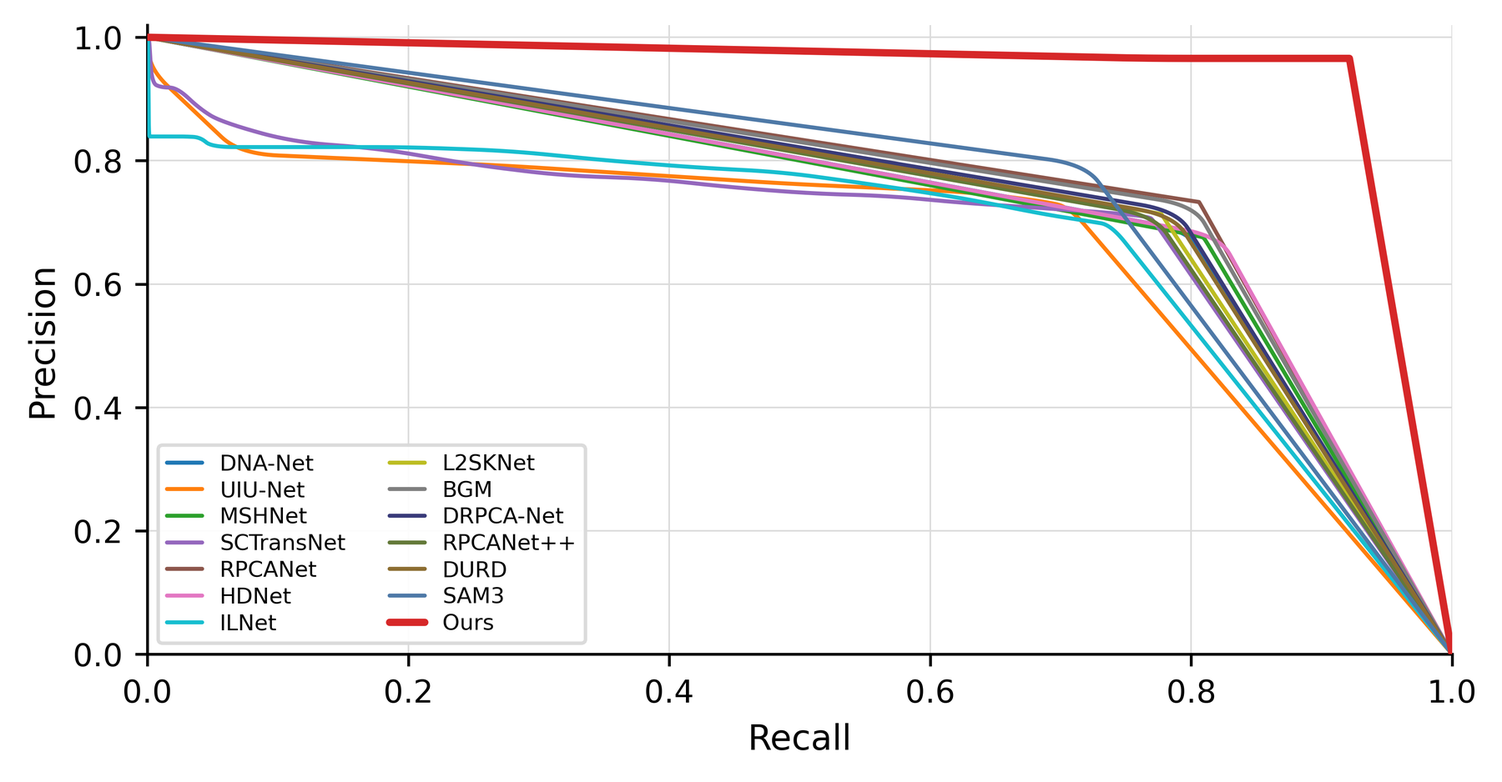
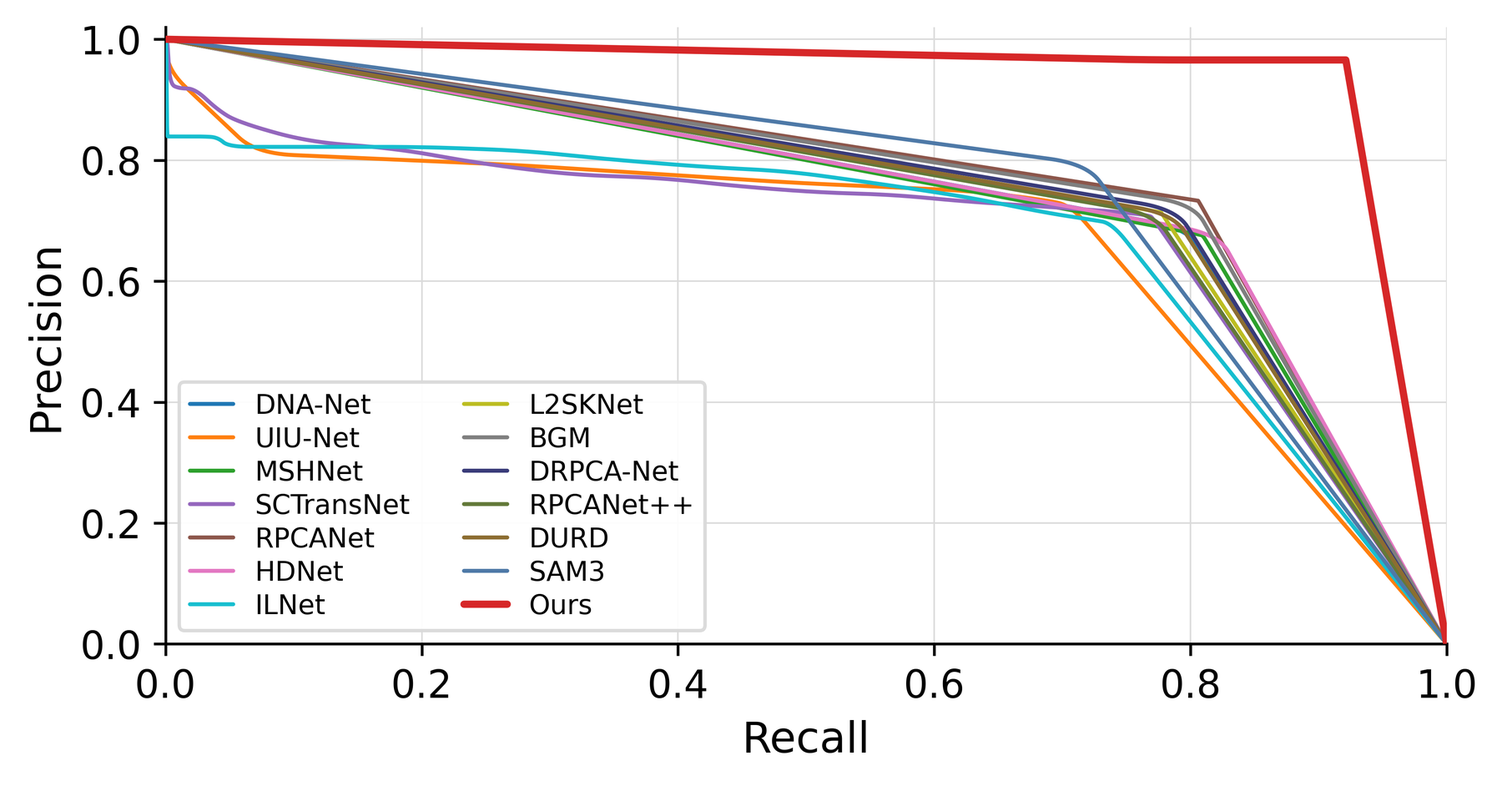
roc 与 pr_obj 字号放大到 1.25 倍
- tools/plot_roc_pr.py、tools/plot_pr_object.py 新增 --font-scale（默认 1.0）：
  轴标签 9->11.25 pt、刻度 8->10 pt、图例 6.4->8 pt；图幅参数不变。
- 重出 v13 的 roc.{png,pdf} 与 pr_obj.{png,pdf}，两张 PNG 同为 3645x1907
  （roc 用 --fig-width 6.8，pr_obj 用 --fig-width 6.686 --fig-height 3.239 对齐）。
- 只改了这 4 个文件；v13 的 pr.png / roc_pr.png 仍是 1.0 版，要统一加同一开关重画。
- 文档：docs/Seal_ROC_PR曲线.md 增"字号"说明与 seal_roc_v13.png 预览；AGENTS/README 同步。
- 服务器同步：roc.png sha 1de7d7fe…、pr_obj.png dbf1b43a…、两个 plot 脚本一并更新。

Changed region(s): [[0.0, 0.0309, 0.9956, 0.8966], [0.4667, 0.6493, 0.7778, 0.6802], [0.4978, 0.8966, 0.5911, 0.9584]]

diff --git a/tools/plot_roc_pr.py b/tools/plot_roc_pr.py
@@ -32,6 +32,11 @@ COLORS = [
     '#4e79a7', '#a55194', '#76b7b2', '#59a14f',
 ]
 
+# Every hard-coded point size below is multiplied by this. It is set from
+# --font-scale, so a figure can be re-rendered with larger type without touching
+# any other layout decision.
+FS = 1.0
+
 
 def color_map(data, highlight):
     """One colour per curve; the highlighted method always gets the red."""
@@ -181,7 +186,7 @@ def style_axes(ax):
     ax.grid(True, linestyle=':', linewidth=0.55, color='0.72', alpha=0.9)
     for s in ('top', 'right'):
         ax.spines[s].set_visible(False)
-    ax.tick_params(labelsize=8, width=0.8, length=3)
+    ax.tick_params(labelsize=8 * FS, width=0.8, length=3)
 
 
 def two_segment(cv, xmax, knee_frac):
@@ -217,8 +222,8 @@ def draw_roc(ax, data, xmax, lw=1.15, lw_main=2.0, two=False, knee_frac=0.98, hi
                 solid_capstyle='round', label=label)
     ax.set_xlim(0, xmax)
     ax.set_ylim(0, 1.02)
-    ax.set_xlabel('False Positive Rate (FPR)', fontsize=9)
-    ax.set_ylabel('True Positive Rate (TPR)', fontsize=9)
+    ax.set_xlabel('False Positive Rate (FPR)', fontsize=9 * FS)
+    ax.set_ylabel('True Positive Rate (TPR)', fontsize=9 * FS)
     ax.set_xticks(np.linspace(0, xmax, 5))
     ax.ticklabel_format(axis='x', style='sci', scilimits=(-4, -4), useMathText=True)
     ax.yaxis.set_major_locator(MaxNLocator(6))
@@ -252,8 +257,8 @@ def draw_pr(ax, data, lw=1.15, lw_main=2.0, style='v1', highlight='Ours', cut_fp
                     markeredgecolor='white', markeredgewidth=0.5)
     ax.set_xlim(0, 1.0)
     ax.set_ylim(0, 1.02)
-    ax.set_xlabel('Recall', fontsize=9)
-    ax.set_ylabel('Precision', fontsize=9)
+    ax.set_xlabel('Recall', fontsize=9 * FS)
+    ax.set_ylabel('Precision', fontsize=9 * FS)
     style_axes(ax)
 
 
@@ -267,6 +272,7 @@ def save(fig, outdir, stem, dpi):
 
 
 def legend_inside(ax, loc, labels, ncol=1, fontsize=6.4):
+    fontsize = fontsize * FS
     """Legend inside the axes (keeps the exported PNG square)."""
     ax.legend(fontsize=fontsize, frameon=True, ncol=ncol, loc=loc,
               labelspacing=0.28, handlelength=1.8, borderpad=0.4,
@@ -274,6 +280,7 @@ def legend_inside(ax, loc, labels, ncol=1, fontsize=6.4):
 
 
 def legend_outside(fig, ax, handles, labels, ncol=1, fontsize=7.4, gap=0.012):
+    fontsize = fontsize * FS
     """Legend hugging the right edge of `ax` (figure coordinates).
 
     Anchoring at a fixed figure fraction left a wide blank band between the
@@ -316,9 +323,13 @@ def main():
                      help='only draw PR thresholds with FPR <= this (e.g. same window as ROC)')
     ap_.add_argument('--highlight', default='Ours',
                      help='label drawn thicker/on top; ignored when absent')
+    ap_.add_argument('--font-scale', type=float, default=1.0,
+                     help='multiply every font size (axis labels, ticks, legend) by this')
     ap_.add_argument('--knee-frac', type=float, default=0.98,
                      help='knee = first point whose TPR >= this fraction of the border TPR')
     args = ap_.parse_args()
+    global FS
+    FS = args.font_scale
 
     manifest = load(args.manifest)
     methods = manifest['methods'] if isinstance(manifest, dict) else manifest
@@ -381,11 +392,11 @@ def main():
     fig, axes = plt.subplots(1, 2, figsize=(min(args.fig_width * 2 + 0.6, 11.5), 3.4))
     fig.subplots_adjust(wspace=0.14, left=0.06, right=0.9)
     draw_roc(axes[0], data, args.xmax, two=args.two_segment, knee_frac=args.knee_frac, highlight=args.highlight)
-    axes[0].set_title('(a) ROC', fontsize=9.5)
+    axes[0].set_title('(a) ROC', fontsize=9.5 * FS)
     draw_pr(axes[1], data, style=args.pr_style, highlight=args.highlight, cut_fpr=args.pr_cut_fpr,
             endpoint_dot=args.pr_endpoint_dot, min_pred=args.pr_min_pred,
             close=args.pr_close)
-    axes[1].set_title('(b) Precision-Recall', fontsize=9.5)
+    axes[1].set_title('(b) Precision-Recall', fontsize=9.5 * FS)
     if args.square:
         for a in axes:
             a.set_box_aspect(1)

diff --git a/tools/plot_pr_object.py b/tools/plot_pr_object.py
@@ -130,6 +130,8 @@ def main():
                     help='append "[AP=0.xxx]" to each legend entry')
     ap.add_argument('--no-show-ap', dest='show_ap', action='store_false')
     ap.set_defaults(show_ap=False)
+    ap.add_argument('--font-scale', type=float, default=1.0,
+                    help='multiply every font size by this')
     ap.add_argument('--corner-radius', type=float, default=0.018,
                     help='fillet radius in axis units for the elbows (0 = sharp corners)')
     ap.add_argument('--close', dest='close', action='store_true',
@@ -143,7 +145,8 @@ def main():
     os.makedirs(args.outdir, exist_ok=True)
     cmap = color_map([m['label'] for m in items], args.highlight)
 
-    plt.rcParams.update({'font.size': 9, 'axes.linewidth': 0.8})
+    fs = args.font_scale
+    plt.rcParams.update({'font.size': 9 * fs, 'axes.linewidth': 0.8})
     fig, ax = plt.subplots(figsize=(args.fig_width, args.fig_height))
 
     rows = []
@@ -167,16 +170,16 @@ def main():
 
     ax.set_xlim(0, 1.0)
     ax.set_ylim(0, 1.02)
-    ax.set_xlabel('Recall', fontsize=10)
-    ax.set_ylabel('Precision', fontsize=10)
+    ax.set_xlabel('Recall', fontsize=10 * fs)
+    ax.set_ylabel('Precision', fontsize=10 * fs)
     ax.set_xticks(np.linspace(0, 1, 6))
     ax.set_yticks(np.linspace(0, 1, 6))
     ax.grid(True, ls='-', lw=0.45, color='0.86', zorder=0)
     for s in ('top', 'right'):
         ax.spines[s].set_visible(False)
     if args.title:
-        ax.set_title(args.title, fontsize=9.5)
-    ax.legend(fontsize=6.3, ncol=args.legend_ncol, loc=args.legend_loc,
+        ax.set_title(args.title, fontsize=9.5 * fs)
+    ax.legend(fontsize=6.3 * fs, ncol=args.legend_ncol, loc=args.legend_loc,
               frameon=True, edgecolor='0.85', framealpha=0.93,
               labelspacing=0.26, handlelength=1.6, borderpad=0.4)
 

diff --git a/AGENTS.md b/AGENTS.md
@@ -67,7 +67,7 @@
 - 第三批（入表，行 29～32）：L2SKNet（TGRS25）、BGM（TGRS25）、DRPCA-Net（TGRS25）、DURD（TGRS26），均为 2025–2026 年、有官方代码的全监督单帧方法，12 个对比方法到此凑满。目录 `L2SKNet-main/`、`BGM-main/`、`DRPCA-Net-main/`、`DURD-main/`；训练设置：L2SKNet 150/Adam 5e-4、BGM 150/Adam 5e-4（两者模型输出已是概率，用概率空间 dataset 级 IoU）、DRPCA-Net 60/Adam 3e-5/dataset 级 SoftIoU + 0.01 MSE、DURD 100/Adam 1e-4/SoftIoU + 0.1 MSE。各处改动逐条写在对应实验记录与 [汇总](docs/Seal全监督基线评估汇总.md#训练不稳定与失败记录)。
 - 论文版式定性图（对齐 PDDiff Fig. 8/9）：[tools/build_paper_qualitative.py](tools/build_paper_qualitative.py)，每个样例两行（2D 二值面板 + 红框/放大插图；3D 响应面 `elev=26, azim=-64`、按面板 z 上限）。三条硬约束：① 3D 行必须喂**概率图**（`--surf-maps results/<M>/Seal/fullsup_test_maps`），二值图是 0/255 阶跃，画出来只有一根尖刺；② Seal 目标只有 3–5 px，`full` 版式（整幅 + 右下插图）在 0.87 in 列宽下几乎看不见，正式图用 `--roi-panels`（面板 = 6 倍放大 ROI，`--roi-min 64 --roi-margin 24`）；③ 11 列 × 11 样例按 9.6 in 出图，若按 7.2 in 排版表头掉到 5.6 pt，主图应拆成 `seal_pick6_roi` + `seal_pick5_roi` 两张。样例取 [docs/qualitative_rank_top200.json](docs/qualitative_rank_top200.json)（`score = F1(Ours) − mean_k F1(baseline_k)`，可用 [docs/qualitative_review_top200.html](docs/qualitative_review_top200.html) 逐图复核），当前采用排名 1,2,5,6,8,11,13,15,19,21,29 共 11 张，一键重建 [tools/make_paper_qualitative_pick.sh](tools/make_paper_qualitative_pick.sh)。Ours 预测在 `Ours/test_maps`（1,983 张概率图）、SAM3 在 `Ours/SAM3-test_maps`（同阈值 `>=128`）。版式规格、样例清单与读数见 [docs/Seal定性图_论文版式.md](docs/Seal定性图_论文版式.md)，预览 `docs/assets/seal_qualitative_pick6_roi.png`、`docs/assets/seal_qualitative_pick11_full.png`。全分辨率成品（600 dpi PNG + 矢量 PDF + meta，约 110 MB/版）按版本归档：服务器保留全部历史（v1 `Ours/qualitative/v1_20261104_11col/`、v2 `v2_20261105/`、v3 `v3_20261105/`、v4 `v4_20261105/`、v5 `v5_20261105/`、v6 `v6_20261105/`、v7 `v7_20261105/`、v8 `v8_20261105/`、v9 `v9_20261105/`、v10 `v10_20261105/`、v11 `v11_20261105/`、v12 `v12_20261105/`），本地只留最新一版在 `Ours/qualitative/v12_20261105/`；**整个 `Ours/qualitative/` 不进 git**（`.gitignore` 整目录排除，只有 `docs/assets/` 里的 1800 px 预览入库）。版式演进：v2 压紧列间距、3D 加网格 + 整数刻度 + 轴名、去掉黑色粗轴线；v3 加单图拆分与 Visio；v4 让 3D 盒子铺满格子（按格子尺寸渲染 PNG → 裁白边 → `aspect='auto'` 贴回）；**v5 解决「3D 白边仍偏大、峰不够高不够显眼」：裁边 26→6 px、平滑 σ 2.0→0.9、`vmax` 取平滑后峰值（峰顶到天花板）、Z 轴统一 0–255 保证跨列可比、盒子 z 比例 0.55→1.00、自定义 `seal3d` 色带（深蓝底→青→黄→亮红）+ `PowerNorm(0.45)`**；并新增 `--diag` 诊断面板（TP 白 / FP 红 / FN 绿 + 红框标 GT），Visio 改用诊断面板；**v6 把诊断面板的红框放大到至少占面板 36%（约 138 px、3 px 线）**；**v11：Ours 换成 1105 最新预测**（`Ours/test_maps` ← `1105Ours_result/Ours.zip`，旧预测存 `Ours/test_maps_20261105_prev`），版式同 v10；11 个样例在新预测下 F1 0.55–0.87、目标全检出（9 个胜全部基线，2 个仅比 SAM3 低 0.01–0.02），故沿用原 11 张；**v10 红框只留一个**：Image 列回到整幅 622×417（压缩成正方形）并画唯一一个正方形红框（v11 曾把边长统一为 `64×sqrt(sx·sy)≈48 px`；**v12 起 Image 列不再画任何红框**——统一 48 px 对 2688/2120/2894 三个大目标偏小、目标露到框外，而各列本来就是同一 ROI 的 6 倍放大，定位框不再必要，实测 Image 列 0 个红色像素；`--image-box` 仅保留为复现 v10/v11 的开关），Mask…Ours 不再画任何红框，保留 TP 白/FP 红/FN 绿；**v12 同时收紧 3D 刻度**：刻度数字向坐标轴收拢（x/y `pad` −3.0→−4.2、z −1.5→−2.2，字号 2.2→2.35），3D 渲染改用 `bbox_inches='tight'` 并统一贴到 848×804 画布（此前 3D 轴的数字画在 axes 之外、被画布直接裁掉，放进 Visio 后又被下一个样例的表头挡住），Visio `ALL` 页的 3D 图缩到 1.07 in 高（宽同比 1.129）让开下一块表头，2D 行与手画红框位置不动；`--image-mode crop417` 可换成 417×417 原比例窗口；**v9 去掉黑边**：ROI 从「以目标为中心后按边界裁」改成「固定边长正方形、贴边整体内移」，窗口永远完整落在图像内（此前 2735 这类贴右边界的样例裁成 64×43 后被补黑）；**v8 修正 Image 列**：原来它是整幅 622×417（红框=ROI 窗口），而 Mask/方法列是已经放大 6 倍的 ROI 块（红框=GT 定位框），两者天然不对应——现在 Image 列也取同一块 ROI 的 6 倍放大并套同一个定位框，11 列视野与框位置完全一致——红框是给人定位用的，v5 那版只比 GT 外扩 8 px，印刷尺寸下等于没有。**v7 再优化三点：① 3D 网格线 0.62 灰 / 0.45 pt、刻度数字 2.2 pt 近黑、每轴 3 个好刻度、去掉会撞车的 X/Y/Z 轴名；② Image 列 3D 改彩色（`seal3d` 色带 + 线性映射，与 PDDiff 一致）；③ 诊断面板遇到多目标时每个连通域各画一个红框（单目标 36% 面板、多目标 0.45/n）**。Visio 版由 [tools/make_visio_qualitative.ps1](tools/make_visio_qualitative.ps1) 用 Visio COM 生成（仅 Windows + 已装 Visio）：**第 1 页 `ALL` 把 11 个样例纵向摞成一页**（表头只出现一次，253 个形状，15×31.3 in），之后每样例一页（每页 34 个独立形状：表头矩形 + 22 张图片 + 页脚说明），全部可手动调整格式。
 - 定性图（论文拼图用）：12 个方法与 Ours 的二值预测图在 `results/<Method>/Seal/test_binary/`（1,983 张，`pixel >= 128` → 255），由 [tools/make_binary_maps.py](tools/make_binary_maps.py) 与 [tools/make_qualitative.sh](tools/make_qualitative.sh) 生成；样例拼图在服务器 `qualitative/<stem>/panel.png`（RGB/热红外/GT/预测叠加，13 行），样例清单 `docs/Seal定性对比样例.json`，说明见 [docs/Seal定性对比图.md](docs/Seal定性对比图.md)。
-- ROC / P-R / Pd–Fa 曲线：像素级曲线用 [tools/roc_hist.py](tools/roc_hist.py) 把预测值按 GT 前景（`gt > 127`）/背景分箱成 256 桶直方图（[tools/roc_hist_all.sh](tools/roc_hist_all.sh) → `results/roc_hist/<Method>.json`），目标级曲线用 [tools/target_curves.py](tools/target_curves.py) 在 63 个阈值上做 8 连通 + 质心 <3 px 一对一匹配（[tools/target_curves_all.sh](tools/target_curves_all.sh) 13 进程并行约 1.5 h → `results/target_curves/<Method>.json`）；出图分别是 [tools/plot_roc_pr.py](tools/plot_roc_pr.py) 与 [tools/plot_target_curves.py](tools/plot_target_curves.py)。产物按版本存 `Ours/roc_pr/<version>/`，**`v10_20261105/`（正文主图，Ours + 8 个重点对比方法：DNA-Net / MSHNet / RPCANet / HDNet / L2SKNet / BGM / RPCANet++ / SAM3）与 `v11_20261105/`（全量 14 条：再加 UIU-Net / SCTransNet / ILNet / DRPCA-Net / DURD）**，两者横轴都改成 **0–16×10⁻⁴（刻度 0/4/8/12/16）**，斜线因此更陡；**v10 用 1:1 坐标框（`--square`），v11 用 6.8×3.3 的长方形画布（不带 `--square`，约 1.92:1，用户偏好）**；`v9_20261105/`（全量）与 `v8_20261105/`（8 个）是 8×10⁻⁴ 宽扁版式的前身**，画法沿用 v5，Ours 红色加粗置顶（`--highlight Ours`）；`v7_20261105/` 是旧 Ours 预测的同一版式，`v6_20261105/` 是误删 Ours 的一版，二者仅留档；`v5_20261105/` 为 13 方法版（Ours + 12 基线），**`v12_20261105/` 为现行目标级 Pd–Fa（1105 批次，线性 + log）**，**`v13_20261105/` 是 v11 的 P-R 改进版**（画布、ROC 与 v11 逐点相同，只改 P-R 的显示：`--pr-min-pred 50000` + `--pr-endpoint-dot`，见下条），`v3_20261105/` 为旧预测的目标级版，`v4/v2/v1` 留档；每次同时存 PNG（600 dpi）与 PDF + `curves.json` + `summary.md`。**画法（用户明确要求）**：每个方法一条折线且只有两段直线——`(0,0) → 拐点 → (右边框, 平台)`；平台取右边框处的值（像素级 = TPR@FPR=窗口右端，目标级 = max Pd），拐点 = 沿横轴升序第一个 ≥0.98×平台 的点（`--two-segment`、`--knee-frac`）。横轴要够长（v10/v11 用 `--xmax 16e-4 --fig-width 4.8 --square`；v8/v9 为 `--xmax 8e-4 --fig-width 6.8`），否则平台贴右边框、看起来"戛然而止"；**`--square` 把坐标框设成 1:1**（`set_box_aspect(1)`），ROC 的斜线与纵轴夹角更小、P-R 是标准 45°；**`--legend-inside` 把图例放进坐标框**（ROC 右下、P-R 左下，>9 条自动两列），导出的 PNG 因此更紧凑（v10 正方形 2645×2564；v11 长方形 3589×1871）；两联图 `roc_pr` 的面板间距 0.28→0.14；改横轴时平台值按新的右边框取（`TPR@窗口右端`），所以 8→16×10⁻⁴ 后 SCTransNet/ILNet/UIU-Net 的平台从 0.88 升到 0.94；**面积指标仍报 `pAUC@5×10⁻⁴`**，该列不随画宽变化；P-R 保留 (0,1) 起点与 recall→1 的尾巴（`--pr-style v1`）；**P-R 为什么像"扇子且在半空截断"（v13 处理）**：Seal 预测是 8 位量化 + 大量硬零（`t=255` 时前景召回只有 0.25–0.61，多数方法在 28–57 % 的 GT 像素上恒为 0），recall 到不了 1，曲线右端自然停住；同时 `t` 接近 255 时整幅只剩几千个预测像素，precision 由个位数像素决定，于是 recall≈0 处冒出竖直毛刺、各条曲线分叉成扇面。v13 用两个**纯显示**开关处理、不动数据：`--pr-min-pred 50000` 丢掉"预测像素 < 5 万"的阈值（毛刺缩到几乎看不见）、`--pr-endpoint-dot` 在每条曲线末端加圆点（读作"到此为止"而非"画漏了"）；仍保留 (0,1) 哨兵，因为去掉后起点悬空（`--pr-style v2` 试过）。数据侧原因（硬零压低 recall）只能靠模型/后处理改，画图解决不了，分析见 [docs/Seal_ROC_PR曲线.md](docs/Seal_ROC_PR曲线.md)；**补充图 `v13_20261105/pr_1.{png,pdf}`**（`--pr-close`）把每条曲线从最后实测点**虚线**外推到 `(1,0)`、交接点画空心圆（实线=实测、虚线=外推）：这不是新数据，只说明"曲线本来就该到 (1,0)"——`recall=1` 时 precision 等于前景占比（Seal test 前景 105,712 px / 总 514,338,642 px = **2.06×10⁻⁴**），在 0–1 纵轴上即 0，所以补到 (1,0) 与补到 (1,2e-4) 肉眼无差；中间段按直线近似故称"大致"，虚线段不参与 pAUC/AP 积分，排名不变；补齐后各虚线在右下角**收成一束**是应有现象，不表示方法接近；**教科书式 P-R 两张补充图**：`v13_20261105/pr_2.{png,pdf}`（像素级、sklearn 惯例：256 个阈值含 `t=0`"全预测"、保留 (0,1) 哨兵，曲线自然终止于 (1,0)，AP 与 summary 一致 0.69984）与 `v13_20261105/pr_obj.{png,pdf}`（**对象级**：`recall` = 表中 Pd、`precision` = 匹配连通域 / 全部预测连通域，匹配规则与 Pd/Fa 相同；`t=128` 的 recall 与表中 Pd 逐位吻合、精度 Ours 0.960 vs 基线 0.66–0.75，Ours AP 0.890 vs 0.544–0.596，形状与参考图同形"高平台 + 右端陡降"，末端用实线同色补到 (1,0)、不画点、拐角 `--corner-radius 0.03` 贝塞尔倒角，**图例只写方法名**（AP 见 [docs/Seal_ROC_PR曲线.md](docs/Seal_ROC_PR曲线.md) 的表，要标回图上加 `--show-ap`）；图注须写明 0.71–0.92 → 1.0 那段不是实测，因对象级召回上限只有 0.71–0.92））；实现 [tools/target_pr.py](tools/target_pr.py)（输出 `results/target_pr/<stem>.json`，[tools/target_pr_all.sh](tools/target_pr_all.sh) 并行约 12 min）、[tools/plot_pr_object.py](tools/plot_pr_object.py)、[tools/plot_pr_textbook.py](tools/plot_pr_textbook.py)；**参考图"精度贴 1.0 平推"像素级做不到**——0.02 % 前景下 255 这一筒的精度只有 Ours 0.835、SAM3 0.651、DNA-Net 0.390，像素级只能从 0.83 起步；正文若配像素级 ROC 用 `pr_2`，配目标级 Pd–Fa（v12）用 `pr_obj`，两者 AP 不可互比、都不进 xlsx；图例贴紧坐标轴右缘（`bbox_to_anchor=(ax.x1+0.012, …)`，锚在固定图幅比例上会留一大片空白）；`--highlight` 指定加粗置顶的方法（默认 `Ours`，方法集里没有它时不加粗）；**红色只留给 highlight**，其余曲线从不含红色的 16 色调色板里取（`color_map()`），否则 14 条曲线时第一个基线和 Ours 会同为红色。**一致性**：像素级 `t=128` 的 precision/recall 可复原表中 F1/IoU（Ours precision 0.58130、recall 0.82963 → F1 0.68361、IoU 0.51931，与第 20 行一致；旧预测同点为 0.64637/0.59388 → 0.61912/0.44835）；目标级 `t=128` 的 Pd/Fa 与表中 13 行全部逐位吻合（Ours 0.89151 / 1.717e-05，与第 20 行一致；旧预测 0.82731 / 2.100e-06 存档于 `results/target_curves/Ours_prev_20261105.json`）。**读图**：① 面积指标报 **pAUC@5×10⁻⁴**（基线操作点 Fa@t=128 ≤ 2.4×10⁻⁴）；v8 换上 1105 的最新 Ours 后，两个窗口的 pAUC（**0.85234 / 0.89420**）与 AP（**0.69984**）都第一，像素 TPR@t=128 从 0.594 提到 **0.830**、FPR 从 6.7×10⁻⁵ 升到 1.2×10⁻⁴（仍是 9 个里第二低）；ROC 上 Ours 在 FPR≈3×10⁻⁴ 就到 0.94 平台，其余 8 个最高只有 0.737；SAM3 平台最高（0.737）但拐点在 4.9×10⁻⁴、Fa 是 Ours 的 3.6 倍，属"用更多误检换更高检出"，正文要把 Fa 一并给出；画到 8×10⁻⁴ 后按窗口积的 `pAUC@8×10⁻⁴` 会把弥散输出方法抬高，summary 两个窗口都列；② 全范围 AUC 不能用来排名（几乎不预测前景的方法 0.977–0.981），与 S/MAE 被背景主导同类；③ 目标级图（`v12_20261105/`，1105 批次）Ours 平台 Pd 0.922 最高、拐点 Fa 6.0×10⁻⁶ 比次优 HDNet（5.2×10⁻⁵）低 8.6 倍，拐点 Fa 跨度 17 倍，**目标级仍主推 log 轴**；④ 像素级 `Pd@t=128` 是前景像素召回率，与表中目标级 Pd 不同口径。曲线成品按同样目录结构同步到服务器 `Ours/roc_pr/`，重画脚本同步在服务器 `tools/`；1105 的 Ours 预测包同时上传到服务器 `Ours/1105Ours_result/Ours.zip`。**曲线与第 20 行 Ours 的八项指标现在同为 1105 这批预测**，可以互相引证；旧预测（`test_maps_20261105_prev`）的曲线与指标只作历史对照。口径、版本对照与复现命令见 [docs/Seal_ROC_PR曲线.md](docs/Seal_ROC_PR曲线.md)，预览 `docs/assets/seal_roc_pr_v13.png`（现行，全量 14 条）、`docs/assets/seal_roc_pr_v10.png`（8 个对比方法版）、`docs/assets/seal_pd_fa_v12.png`（现行目标级）、`docs/assets/seal_pd_fa_v3.png`（旧预测目标级）。
+- ROC / P-R / Pd–Fa 曲线：像素级曲线用 [tools/roc_hist.py](tools/roc_hist.py) 把预测值按 GT 前景（`gt > 127`）/背景分箱成 256 桶直方图（[tools/roc_hist_all.sh](tools/roc_hist_all.sh) → `results/roc_hist/<Method>.json`），目标级曲线用 [tools/target_curves.py](tools/target_curves.py) 在 63 个阈值上做 8 连通 + 质心 <3 px 一对一匹配（[tools/target_curves_all.sh](tools/target_curves_all.sh) 13 进程并行约 1.5 h → `results/target_curves/<Method>.json`）；出图分别是 [tools/plot_roc_pr.py](tools/plot_roc_pr.py) 与 [tools/plot_target_curves.py](tools/plot_target_curves.py)。产物按版本存 `Ours/roc_pr/<version>/`，**`v10_20261105/`（正文主图，Ours + 8 个重点对比方法：DNA-Net / MSHNet / RPCANet / HDNet / L2SKNet / BGM / RPCANet++ / SAM3）与 `v11_20261105/`（全量 14 条：再加 UIU-Net / SCTransNet / ILNet / DRPCA-Net / DURD）**，两者横轴都改成 **0–16×10⁻⁴（刻度 0/4/8/12/16）**，斜线因此更陡；**v10 用 1:1 坐标框（`--square`），v11 用 6.8×3.3 的长方形画布（不带 `--square`，约 1.92:1，用户偏好）**；`v9_20261105/`（全量）与 `v8_20261105/`（8 个）是 8×10⁻⁴ 宽扁版式的前身**，画法沿用 v5，Ours 红色加粗置顶（`--highlight Ours`）；`v7_20261105/` 是旧 Ours 预测的同一版式，`v6_20261105/` 是误删 Ours 的一版，二者仅留档；`v5_20261105/` 为 13 方法版（Ours + 12 基线），**`v12_20261105/` 为现行目标级 Pd–Fa（1105 批次，线性 + log）**，**`v13_20261105/` 是 v11 的 P-R 改进版**（画布、ROC 与 v11 逐点相同，只改 P-R 的显示：`--pr-min-pred 50000` + `--pr-endpoint-dot`，见下条），`v3_20261105/` 为旧预测的目标级版，`v4/v2/v1` 留档；每次同时存 PNG（600 dpi）与 PDF + `curves.json` + `summary.md`。**画法（用户明确要求）**：每个方法一条折线且只有两段直线——`(0,0) → 拐点 → (右边框, 平台)`；平台取右边框处的值（像素级 = TPR@FPR=窗口右端，目标级 = max Pd），拐点 = 沿横轴升序第一个 ≥0.98×平台 的点（`--two-segment`、`--knee-frac`）。横轴要够长（v10/v11 用 `--xmax 16e-4 --fig-width 4.8 --square`；v8/v9 为 `--xmax 8e-4 --fig-width 6.8`），否则平台贴右边框、看起来"戛然而止"；**`--square` 把坐标框设成 1:1**（`set_box_aspect(1)`），ROC 的斜线与纵轴夹角更小、P-R 是标准 45°；**`--legend-inside` 把图例放进坐标框**（ROC 右下、P-R 左下，>9 条自动两列），导出的 PNG 因此更紧凑（v10 正方形 2645×2564；v11 长方形 3589×1871）；两联图 `roc_pr` 的面板间距 0.28→0.14；改横轴时平台值按新的右边框取（`TPR@窗口右端`），所以 8→16×10⁻⁴ 后 SCTransNet/ILNet/UIU-Net 的平台从 0.88 升到 0.94；**面积指标仍报 `pAUC@5×10⁻⁴`**，该列不随画宽变化；P-R 保留 (0,1) 起点与 recall→1 的尾巴（`--pr-style v1`）；**P-R 为什么像"扇子且在半空截断"（v13 处理）**：Seal 预测是 8 位量化 + 大量硬零（`t=255` 时前景召回只有 0.25–0.61，多数方法在 28–57 % 的 GT 像素上恒为 0），recall 到不了 1，曲线右端自然停住；同时 `t` 接近 255 时整幅只剩几千个预测像素，precision 由个位数像素决定，于是 recall≈0 处冒出竖直毛刺、各条曲线分叉成扇面。v13 用两个**纯显示**开关处理、不动数据：`--pr-min-pred 50000` 丢掉"预测像素 < 5 万"的阈值（毛刺缩到几乎看不见）、`--pr-endpoint-dot` 在每条曲线末端加圆点（读作"到此为止"而非"画漏了"）；仍保留 (0,1) 哨兵，因为去掉后起点悬空（`--pr-style v2` 试过）。数据侧原因（硬零压低 recall）只能靠模型/后处理改，画图解决不了，分析见 [docs/Seal_ROC_PR曲线.md](docs/Seal_ROC_PR曲线.md)；**补充图 `v13_20261105/pr_1.{png,pdf}`**（`--pr-close`）把每条曲线从最后实测点**虚线**外推到 `(1,0)`、交接点画空心圆（实线=实测、虚线=外推）：这不是新数据，只说明"曲线本来就该到 (1,0)"——`recall=1` 时 precision 等于前景占比（Seal test 前景 105,712 px / 总 514,338,642 px = **2.06×10⁻⁴**），在 0–1 纵轴上即 0，所以补到 (1,0) 与补到 (1,2e-4) 肉眼无差；中间段按直线近似故称"大致"，虚线段不参与 pAUC/AP 积分，排名不变；补齐后各虚线在右下角**收成一束**是应有现象，不表示方法接近；**教科书式 P-R 两张补充图**：`v13_20261105/pr_2.{png,pdf}`（像素级、sklearn 惯例：256 个阈值含 `t=0`"全预测"、保留 (0,1) 哨兵，曲线自然终止于 (1,0)，AP 与 summary 一致 0.69984）与 `v13_20261105/pr_obj.{png,pdf}`（**对象级**：`recall` = 表中 Pd、`precision` = 匹配连通域 / 全部预测连通域，匹配规则与 Pd/Fa 相同；`t=128` 的 recall 与表中 Pd 逐位吻合、精度 Ours 0.960 vs 基线 0.66–0.75，Ours AP 0.890 vs 0.544–0.596，形状与参考图同形"高平台 + 右端陡降"，末端用实线同色补到 (1,0)、不画点、拐角 `--corner-radius 0.03` 贝塞尔倒角，**图例只写方法名**（AP 见 [docs/Seal_ROC_PR曲线.md](docs/Seal_ROC_PR曲线.md) 的表，要标回图上加 `--show-ap`）；**字号**：`roc` 与 `pr_obj` 用 `--font-scale 1.25` 出图（轴标签 9→11.25 pt、刻度 8→10 pt、图例 6.4→8 pt），两张 PNG 同为 3645×1907（`plot_roc_pr.py`、`plot_pr_object.py` 都带该开关，默认 1.0；v13 的 `pr.png`/`roc_pr.png` 仍是 1.0 版）；图注须写明 0.71–0.92 → 1.0 那段不是实测，因对象级召回上限只有 0.71–0.92））；实现 [tools/target_pr.py](tools/target_pr.py)（输出 `results/target_pr/<stem>.json`，[tools/target_pr_all.sh](tools/target_pr_all.sh) 并行约 12 min）、[tools/plot_pr_object.py](tools/plot_pr_object.py)、[tools/plot_pr_textbook.py](tools/plot_pr_textbook.py)；**参考图"精度贴 1.0 平推"像素级做不到**——0.02 % 前景下 255 这一筒的精度只有 Ours 0.835、SAM3 0.651、DNA-Net 0.390，像素级只能从 0.83 起步；正文若配像素级 ROC 用 `pr_2`，配目标级 Pd–Fa（v12）用 `pr_obj`，两者 AP 不可互比、都不进 xlsx；图例贴紧坐标轴右缘（`bbox_to_anchor=(ax.x1+0.012, …)`，锚在固定图幅比例上会留一大片空白）；`--highlight` 指定加粗置顶的方法（默认 `Ours`，方法集里没有它时不加粗）；**红色只留给 highlight**，其余曲线从不含红色的 16 色调色板里取（`color_map()`），否则 14 条曲线时第一个基线和 Ours 会同为红色。**一致性**：像素级 `t=128` 的 precision/recall 可复原表中 F1/IoU（Ours precision 0.58130、recall 0.82963 → F1 0.68361、IoU 0.51931，与第 20 行一致；旧预测同点为 0.64637/0.59388 → 0.61912/0.44835）；目标级 `t=128` 的 Pd/Fa 与表中 13 行全部逐位吻合（Ours 0.89151 / 1.717e-05，与第 20 行一致；旧预测 0.82731 / 2.100e-06 存档于 `results/target_curves/Ours_prev_20261105.json`）。**读图**：① 面积指标报 **pAUC@5×10⁻⁴**（基线操作点 Fa@t=128 ≤ 2.4×10⁻⁴）；v8 换上 1105 的最新 Ours 后，两个窗口的 pAUC（**0.85234 / 0.89420**）与 AP（**0.69984**）都第一，像素 TPR@t=128 从 0.594 提到 **0.830**、FPR 从 6.7×10⁻⁵ 升到 1.2×10⁻⁴（仍是 9 个里第二低）；ROC 上 Ours 在 FPR≈3×10⁻⁴ 就到 0.94 平台，其余 8 个最高只有 0.737；SAM3 平台最高（0.737）但拐点在 4.9×10⁻⁴、Fa 是 Ours 的 3.6 倍，属"用更多误检换更高检出"，正文要把 Fa 一并给出；画到 8×10⁻⁴ 后按窗口积的 `pAUC@8×10⁻⁴` 会把弥散输出方法抬高，summary 两个窗口都列；② 全范围 AUC 不能用来排名（几乎不预测前景的方法 0.977–0.981），与 S/MAE 被背景主导同类；③ 目标级图（`v12_20261105/`，1105 批次）Ours 平台 Pd 0.922 最高、拐点 Fa 6.0×10⁻⁶ 比次优 HDNet（5.2×10⁻⁵）低 8.6 倍，拐点 Fa 跨度 17 倍，**目标级仍主推 log 轴**；④ 像素级 `Pd@t=128` 是前景像素召回率，与表中目标级 Pd 不同口径。曲线成品按同样目录结构同步到服务器 `Ours/roc_pr/`，重画脚本同步在服务器 `tools/`；1105 的 Ours 预测包同时上传到服务器 `Ours/1105Ours_result/Ours.zip`。**曲线与第 20 行 Ours 的八项指标现在同为 1105 这批预测**，可以互相引证；旧预测（`test_maps_20261105_prev`）的曲线与指标只作历史对照。口径、版本对照与复现命令见 [docs/Seal_ROC_PR曲线.md](docs/Seal_ROC_PR曲线.md)，预览 `docs/assets/seal_roc_pr_v13.png`（现行，全量 14 条）、`docs/assets/seal_roc_pr_v10.png`（8 个对比方法版）、`docs/assets/seal_pd_fa_v12.png`（现行目标级）、`docs/assets/seal_pd_fa_v3.png`（旧预测目标级）。
 - IoU 的边界敏感性：Seal 目标平均 14.3 像素，把 GT 膨胀/腐蚀 1 像素当预测只能得到 IoU 0.3910 / 0.0826；表中 IoU 0.19–0.31 对应约 1–2 像素边界误差，不能读作分割质量百分比，须与 Fw/F1/Pd/Fa 合看，详见 [定义对照](docs/小目标评价指标_定义与代码对照.md#iou-的边界敏感性seal-gt-实测)。
 - 实验记录：[ACM](docs/ACM_Seal实验记录.md)、[DNA-Net](docs/DNANet_Seal实验记录.md)、[MSHNet](docs/MSHNet_Seal实验记录.md)、[UIU-Net](docs/UIU-Net_Seal实验记录.md)、[SCTransNet](docs/SCTransNet_Seal实验记录.md)、[RPCANet](docs/RPCANet_Seal实验记录.md)、[HDNet](docs/HDNet_Seal实验记录.md)、[ILNet](docs/ILNet_Seal实验记录.md)、[RPCANet++](docs/RPCANet++_Seal实验记录.md)、[L2SKNet](docs/L2SKNet_Seal实验记录.md)、[BGM](docs/BGM_Seal实验记录.md)、[DRPCA-Net](docs/DRPCA-Net_Seal实验记录.md)、[DURD](docs/DURD_Seal实验记录.md)、[DHiF](docs/DHiF_Seal实验记录.md)，汇总见 [Seal全监督基线评估汇总](docs/Seal全监督基线评估汇总.md)，定性图见 [Seal定性对比图](docs/Seal定性对比图.md)。
 

diff --git a/README.md b/README.md
@@ -70,7 +70,7 @@
 - 第三批（入表，行 29～32）：L2SKNet（TGRS25）、BGM（TGRS25）、DRPCA-Net（TGRS25）、DURD（TGRS26），均为 2025–2026 年、有官方代码的全监督单帧方法，12 个对比方法到此凑满。目录 `L2SKNet-main/`、`BGM-main/`、`DRPCA-Net-main/`、`DURD-main/`；训练设置：L2SKNet 150/Adam 5e-4、BGM 150/Adam 5e-4（两者模型输出已是概率，用概率空间 dataset 级 IoU）、DRPCA-Net 60/Adam 3e-5/dataset 级 SoftIoU + 0.01 MSE、DURD 100/Adam 1e-4/SoftIoU + 0.1 MSE。各处改动逐条写在对应实验记录与 [汇总](docs/Seal全监督基线评估汇总.md#训练不稳定与失败记录)。
 - 论文版式定性图（对齐 PDDiff Fig. 8/9）：[tools/build_paper_qualitative.py](tools/build_paper_qualitative.py)，每个样例两行（2D 二值面板 + 红框/放大插图；3D 响应面 `elev=26, azim=-64`、按面板 z 上限）。三条硬约束：① 3D 行必须喂**概率图**（`--surf-maps results/<M>/Seal/fullsup_test_maps`），二值图是 0/255 阶跃，画出来只有一根尖刺；② Seal 目标只有 3–5 px，`full` 版式（整幅 + 右下插图）在 0.87 in 列宽下几乎看不见，正式图用 `--roi-panels`（面板 = 6 倍放大 ROI，`--roi-min 64 --roi-margin 24`）；③ 11 列 × 11 样例按 9.6 in 出图，若按 7.2 in 排版表头掉到 5.6 pt，主图应拆成 `seal_pick6_roi` + `seal_pick5_roi` 两张。样例取 [docs/qualitative_rank_top200.json](docs/qualitative_rank_top200.json)（`score = F1(Ours) − mean_k F1(baseline_k)`，可用 [docs/qualitative_review_top200.html](docs/qualitative_review_top200.html) 逐图复核），当前采用排名 1,2,5,6,8,11,13,15,19,21,29 共 11 张，一键重建 [tools/make_paper_qualitative_pick.sh](tools/make_paper_qualitative_pick.sh)。Ours 预测在 `Ours/test_maps`（1,983 张概率图）、SAM3 在 `Ours/SAM3-test_maps`（同阈值 `>=128`）。版式规格、样例清单与读数见 [docs/Seal定性图_论文版式.md](docs/Seal定性图_论文版式.md)，预览 `docs/assets/seal_qualitative_pick6_roi.png`、`docs/assets/seal_qualitative_pick11_full.png`。全分辨率成品（600 dpi PNG + 矢量 PDF + meta，约 110 MB/版）按版本归档：服务器保留全部历史（v1 `Ours/qualitative/v1_20261104_11col/`、v2 `v2_20261105/`、v3 `v3_20261105/`、v4 `v4_20261105/`、v5 `v5_20261105/`、v6 `v6_20261105/`、v7 `v7_20261105/`、v8 `v8_20261105/`、v9 `v9_20261105/`、v10 `v10_20261105/`、v11 `v11_20261105/`、v12 `v12_20261105/`），本地只留最新一版在 `Ours/qualitative/v12_20261105/`；**整个 `Ours/qualitative/` 不进 git**（`.gitignore` 整目录排除，只有 `docs/assets/` 里的 1800 px 预览入库）。版式演进：v2 压紧列间距、3D 加网格 + 整数刻度 + 轴名、去掉黑色粗轴线；v3 加单图拆分与 Visio；v4 让 3D 盒子铺满格子（按格子尺寸渲染 PNG → 裁白边 → `aspect='auto'` 贴回）；**v5 解决「3D 白边仍偏大、峰不够高不够显眼」：裁边 26→6 px、平滑 σ 2.0→0.9、`vmax` 取平滑后峰值（峰顶到天花板）、Z 轴统一 0–255 保证跨列可比、盒子 z 比例 0.55→1.00、自定义 `seal3d` 色带（深蓝底→青→黄→亮红）+ `PowerNorm(0.45)`**；并新增 `--diag` 诊断面板（TP 白 / FP 红 / FN 绿 + 红框标 GT），Visio 改用诊断面板；**v6 把诊断面板的红框放大到至少占面板 36%（约 138 px、3 px 线）**；**v11：Ours 换成 1105 最新预测**（`Ours/test_maps` ← `1105Ours_result/Ours.zip`，旧预测存 `Ours/test_maps_20261105_prev`），版式同 v10；11 个样例在新预测下 F1 0.55–0.87、目标全检出（9 个胜全部基线，2 个仅比 SAM3 低 0.01–0.02），故沿用原 11 张；**v10 红框只留一个**：Image 列回到整幅 622×417（压缩成正方形）并画唯一一个正方形红框（v11 曾把边长统一为 `64×sqrt(sx·sy)≈48 px`；**v12 起 Image 列不再画任何红框**——统一 48 px 对 2688/2120/2894 三个大目标偏小、目标露到框外，而各列本来就是同一 ROI 的 6 倍放大，定位框不再必要，实测 Image 列 0 个红色像素；`--image-box` 仅保留为复现 v10/v11 的开关），Mask…Ours 不再画任何红框，保留 TP 白/FP 红/FN 绿；**v12 同时收紧 3D 刻度**：刻度数字向坐标轴收拢（x/y `pad` −3.0→−4.2、z −1.5→−2.2，字号 2.2→2.35），3D 渲染改用 `bbox_inches='tight'` 并统一贴到 848×804 画布（此前 3D 轴的数字画在 axes 之外、被画布直接裁掉，放进 Visio 后又被下一个样例的表头挡住），Visio `ALL` 页的 3D 图缩到 1.07 in 高（宽同比 1.129）让开下一块表头，2D 行与手画红框位置不动；`--image-mode crop417` 可换成 417×417 原比例窗口；**v9 去掉黑边**：ROI 从「以目标为中心后按边界裁」改成「固定边长正方形、贴边整体内移」，窗口永远完整落在图像内（此前 2735 这类贴右边界的样例裁成 64×43 后被补黑）；**v8 修正 Image 列**：原来它是整幅 622×417（红框=ROI 窗口），而 Mask/方法列是已经放大 6 倍的 ROI 块（红框=GT 定位框），两者天然不对应——现在 Image 列也取同一块 ROI 的 6 倍放大并套同一个定位框，11 列视野与框位置完全一致——红框是给人定位用的，v5 那版只比 GT 外扩 8 px，印刷尺寸下等于没有。**v7 再优化三点：① 3D 网格线 0.62 灰 / 0.45 pt、刻度数字 2.2 pt 近黑、每轴 3 个好刻度、去掉会撞车的 X/Y/Z 轴名；② Image 列 3D 改彩色（`seal3d` 色带 + 线性映射，与 PDDiff 一致）；③ 诊断面板遇到多目标时每个连通域各画一个红框（单目标 36% 面板、多目标 0.45/n）**。Visio 版由 [tools/make_visio_qualitative.ps1](tools/make_visio_qualitative.ps1) 用 Visio COM 生成（仅 Windows + 已装 Visio）：**第 1 页 `ALL` 把 11 个样例纵向摞成一页**（表头只出现一次，253 个形状，15×31.3 in），之后每样例一页（每页 34 个独立形状：表头矩形 + 22 张图片 + 页脚说明），全部可手动调整格式。
 - 定性图（论文拼图用）：12 个方法与 Ours 的二值预测图在 `results/<Method>/Seal/test_binary/`（1,983 张，`pixel >= 128` → 255），由 [tools/make_binary_maps.py](tools/make_binary_maps.py) 与 [tools/make_qualitative.sh](tools/make_qualitative.sh) 生成；样例拼图在服务器 `qualitative/<stem>/panel.png`（RGB/热红外/GT/预测叠加，13 行），样例清单 `docs/Seal定性对比样例.json`，说明见 [docs/Seal定性对比图.md](docs/Seal定性对比图.md)。
-- ROC / P-R / Pd–Fa 曲线：像素级曲线用 [tools/roc_hist.py](tools/roc_hist.py) 把预测值按 GT 前景（`gt > 127`）/背景分箱成 256 桶直方图（[tools/roc_hist_all.sh](tools/roc_hist_all.sh) → `results/roc_hist/<Method>.json`），目标级曲线用 [tools/target_curves.py](tools/target_curves.py) 在 63 个阈值上做 8 连通 + 质心 <3 px 一对一匹配（[tools/target_curves_all.sh](tools/target_curves_all.sh) 13 进程并行约 1.5 h → `results/target_curves/<Method>.json`）；出图分别是 [tools/plot_roc_pr.py](tools/plot_roc_pr.py) 与 [tools/plot_target_curves.py](tools/plot_target_curves.py)。产物按版本存 `Ours/roc_pr/<version>/`，**`v10_20261105/`（正文主图，Ours + 8 个重点对比方法：DNA-Net / MSHNet / RPCANet / HDNet / L2SKNet / BGM / RPCANet++ / SAM3）与 `v11_20261105/`（全量 14 条：再加 UIU-Net / SCTransNet / ILNet / DRPCA-Net / DURD）**，两者横轴都改成 **0–16×10⁻⁴（刻度 0/4/8/12/16）**，斜线因此更陡；**v10 用 1:1 坐标框（`--square`），v11 用 6.8×3.3 的长方形画布（不带 `--square`，约 1.92:1，用户偏好）**；`v9_20261105/`（全量）与 `v8_20261105/`（8 个）是 8×10⁻⁴ 宽扁版式的前身**，画法沿用 v5，Ours 红色加粗置顶（`--highlight Ours`）；`v7_20261105/` 是旧 Ours 预测的同一版式，`v6_20261105/` 是误删 Ours 的一版，二者仅留档；`v5_20261105/` 为 13 方法版（Ours + 12 基线），**`v12_20261105/` 为现行目标级 Pd–Fa（1105 批次，线性 + log）**，**`v13_20261105/` 是 v11 的 P-R 改进版**（画布、ROC 与 v11 逐点相同，只改 P-R 的显示：`--pr-min-pred 50000` + `--pr-endpoint-dot`，见下条），`v3_20261105/` 为旧预测的目标级版，`v4/v2/v1` 留档；每次同时存 PNG（600 dpi）与 PDF + `curves.json` + `summary.md`。**画法（用户明确要求）**：每个方法一条折线且只有两段直线——`(0,0) → 拐点 → (右边框, 平台)`；平台取右边框处的值（像素级 = TPR@FPR=窗口右端，目标级 = max Pd），拐点 = 沿横轴升序第一个 ≥0.98×平台 的点（`--two-segment`、`--knee-frac`）。横轴要够长（v10/v11 用 `--xmax 16e-4 --fig-width 4.8 --square`；v8/v9 为 `--xmax 8e-4 --fig-width 6.8`），否则平台贴右边框、看起来"戛然而止"；**`--square` 把坐标框设成 1:1**（`set_box_aspect(1)`），ROC 的斜线与纵轴夹角更小、P-R 是标准 45°；**`--legend-inside` 把图例放进坐标框**（ROC 右下、P-R 左下，>9 条自动两列），导出的 PNG 因此更紧凑（v10 正方形 2645×2564；v11 长方形 3589×1871）；两联图 `roc_pr` 的面板间距 0.28→0.14；改横轴时平台值按新的右边框取（`TPR@窗口右端`），所以 8→16×10⁻⁴ 后 SCTransNet/ILNet/UIU-Net 的平台从 0.88 升到 0.94；**面积指标仍报 `pAUC@5×10⁻⁴`**，该列不随画宽变化；P-R 保留 (0,1) 起点与 recall→1 的尾巴（`--pr-style v1`）；**P-R 为什么像"扇子且在半空截断"（v13 处理）**：Seal 预测是 8 位量化 + 大量硬零（`t=255` 时前景召回只有 0.25–0.61，多数方法在 28–57 % 的 GT 像素上恒为 0），recall 到不了 1，曲线右端自然停住；同时 `t` 接近 255 时整幅只剩几千个预测像素，precision 由个位数像素决定，于是 recall≈0 处冒出竖直毛刺、各条曲线分叉成扇面。v13 用两个**纯显示**开关处理、不动数据：`--pr-min-pred 50000` 丢掉"预测像素 < 5 万"的阈值（毛刺缩到几乎看不见）、`--pr-endpoint-dot` 在每条曲线末端加圆点（读作"到此为止"而非"画漏了"）；仍保留 (0,1) 哨兵，因为去掉后起点悬空（`--pr-style v2` 试过）。数据侧原因（硬零压低 recall）只能靠模型/后处理改，画图解决不了，分析见 [docs/Seal_ROC_PR曲线.md](docs/Seal_ROC_PR曲线.md)；**补充图 `v13_20261105/pr_1.{png,pdf}`**（`--pr-close`）把每条曲线从最后实测点**虚线**外推到 `(1,0)`、交接点画空心圆（实线=实测、虚线=外推）：这不是新数据，只说明"曲线本来就该到 (1,0)"——`recall=1` 时 precision 等于前景占比（Seal test 前景 105,712 px / 总 514,338,642 px = **2.06×10⁻⁴**），在 0–1 纵轴上即 0，所以补到 (1,0) 与补到 (1,2e-4) 肉眼无差；中间段按直线近似故称"大致"，虚线段不参与 pAUC/AP 积分，排名不变；补齐后各虚线在右下角**收成一束**是应有现象，不表示方法接近；**教科书式 P-R 两张补充图**：`v13_20261105/pr_2.{png,pdf}`（像素级、sklearn 惯例：256 个阈值含 `t=0`"全预测"、保留 (0,1) 哨兵，曲线自然终止于 (1,0)，AP 与 summary 一致 0.69984）与 `v13_20261105/pr_obj.{png,pdf}`（**对象级**：`recall` = 表中 Pd、`precision` = 匹配连通域 / 全部预测连通域，匹配规则与 Pd/Fa 相同；`t=128` 的 recall 与表中 Pd 逐位吻合、精度 Ours 0.960 vs 基线 0.66–0.75，Ours AP 0.890 vs 0.544–0.596，形状与参考图同形"高平台 + 右端陡降"，末端用实线同色补到 (1,0)、不画点、拐角 `--corner-radius 0.03` 贝塞尔倒角，**图例只写方法名**（AP 见 [docs/Seal_ROC_PR曲线.md](docs/Seal_ROC_PR曲线.md) 的表，要标回图上加 `--show-ap`）；图注须写明 0.71–0.92 → 1.0 那段不是实测，因对象级召回上限只有 0.71–0.92））；实现 [tools/target_pr.py](tools/target_pr.py)（输出 `results/target_pr/<stem>.json`，[tools/target_pr_all.sh](tools/target_pr_all.sh) 并行约 12 min）、[tools/plot_pr_object.py](tools/plot_pr_object.py)、[tools/plot_pr_textbook.py](tools/plot_pr_textbook.py)；**参考图"精度贴 1.0 平推"像素级做不到**——0.02 % 前景下 255 这一筒的精度只有 Ours 0.835、SAM3 0.651、DNA-Net 0.390，像素级只能从 0.83 起步；正文若配像素级 ROC 用 `pr_2`，配目标级 Pd–Fa（v12）用 `pr_obj`，两者 AP 不可互比、都不进 xlsx；图例贴紧坐标轴右缘（`bbox_to_anchor=(ax.x1+0.012, …)`，锚在固定图幅比例上会留一大片空白）；`--highlight` 指定加粗置顶的方法（默认 `Ours`，方法集里没有它时不加粗）；**红色只留给 highlight**，其余曲线从不含红色的 16 色调色板里取（`color_map()`），否则 14 条曲线时第一个基线和 Ours 会同为红色。**一致性**：像素级 `t=128` 的 precision/recall 可复原表中 F1/IoU（Ours precision 0.58130、recall 0.82963 → F1 0.68361、IoU 0.51931，与第 20 行一致；旧预测同点为 0.64637/0.59388 → 0.61912/0.44835）；目标级 `t=128` 的 Pd/Fa 与表中 13 行全部逐位吻合（Ours 0.89151 / 1.717e-05，与第 20 行一致；旧预测 0.82731 / 2.100e-06 存档于 `results/target_curves/Ours_prev_20261105.json`）。**读图**：① 面积指标报 **pAUC@5×10⁻⁴**（基线操作点 Fa@t=128 ≤ 2.4×10⁻⁴）；v8 换上 1105 的最新 Ours 后，两个窗口的 pAUC（**0.85234 / 0.89420**）与 AP（**0.69984**）都第一，像素 TPR@t=128 从 0.594 提到 **0.830**、FPR 从 6.7×10⁻⁵ 升到 1.2×10⁻⁴（仍是 9 个里第二低）；ROC 上 Ours 在 FPR≈3×10⁻⁴ 就到 0.94 平台，其余 8 个最高只有 0.737；SAM3 平台最高（0.737）但拐点在 4.9×10⁻⁴、Fa 是 Ours 的 3.6 倍，属"用更多误检换更高检出"，正文要把 Fa 一并给出；画到 8×10⁻⁴ 后按窗口积的 `pAUC@8×10⁻⁴` 会把弥散输出方法抬高，summary 两个窗口都列；② 全范围 AUC 不能用来排名（几乎不预测前景的方法 0.977–0.981），与 S/MAE 被背景主导同类；③ 目标级图（`v12_20261105/`，1105 批次）Ours 平台 Pd 0.922 最高、拐点 Fa 6.0×10⁻⁶ 比次优 HDNet（5.2×10⁻⁵）低 8.6 倍，拐点 Fa 跨度 17 倍，**目标级仍主推 log 轴**；④ 像素级 `Pd@t=128` 是前景像素召回率，与表中目标级 Pd 不同口径。曲线成品按同样目录结构同步到服务器 `Ours/roc_pr/`，重画脚本同步在服务器 `tools/`；1105 的 Ours 预测包同时上传到服务器 `Ours/1105Ours_result/Ours.zip`。**曲线与第 20 行 Ours 的八项指标现在同为 1105 这批预测**，可以互相引证；旧预测（`test_maps_20261105_prev`）的曲线与指标只作历史对照。口径、版本对照与复现命令见 [docs/Seal_ROC_PR曲线.md](docs/Seal_ROC_PR曲线.md)，预览 `docs/assets/seal_roc_pr_v13.png`（现行，全量 14 条）、`docs/assets/seal_roc_pr_v10.png`（8 个对比方法版）、`docs/assets/seal_pd_fa_v12.png`（现行目标级）、`docs/assets/seal_pd_fa_v3.png`（旧预测目标级）。
+- ROC / P-R / Pd–Fa 曲线：像素级曲线用 [tools/roc_hist.py](tools/roc_hist.py) 把预测值按 GT 前景（`gt > 127`）/背景分箱成 256 桶直方图（[tools/roc_hist_all.sh](tools/roc_hist_all.sh) → `results/roc_hist/<Method>.json`），目标级曲线用 [tools/target_curves.py](tools/target_curves.py) 在 63 个阈值上做 8 连通 + 质心 <3 px 一对一匹配（[tools/target_curves_all.sh](tools/target_curves_all.sh) 13 进程并行约 1.5 h → `results/target_curves/<Method>.json`）；出图分别是 [tools/plot_roc_pr.py](tools/plot_roc_pr.py) 与 [tools/plot_target_curves.py](tools/plot_target_curves.py)。产物按版本存 `Ours/roc_pr/<version>/`，**`v10_20261105/`（正文主图，Ours + 8 个重点对比方法：DNA-Net / MSHNet / RPCANet / HDNet / L2SKNet / BGM / RPCANet++ / SAM3）与 `v11_20261105/`（全量 14 条：再加 UIU-Net / SCTransNet / ILNet / DRPCA-Net / DURD）**，两者横轴都改成 **0–16×10⁻⁴（刻度 0/4/8/12/16）**，斜线因此更陡；**v10 用 1:1 坐标框（`--square`），v11 用 6.8×3.3 的长方形画布（不带 `--square`，约 1.92:1，用户偏好）**；`v9_20261105/`（全量）与 `v8_20261105/`（8 个）是 8×10⁻⁴ 宽扁版式的前身**，画法沿用 v5，Ours 红色加粗置顶（`--highlight Ours`）；`v7_20261105/` 是旧 Ours 预测的同一版式，`v6_20261105/` 是误删 Ours 的一版，二者仅留档；`v5_20261105/` 为 13 方法版（Ours + 12 基线），**`v12_20261105/` 为现行目标级 Pd–Fa（1105 批次，线性 + log）**，**`v13_20261105/` 是 v11 的 P-R 改进版**（画布、ROC 与 v11 逐点相同，只改 P-R 的显示：`--pr-min-pred 50000` + `--pr-endpoint-dot`，见下条），`v3_20261105/` 为旧预测的目标级版，`v4/v2/v1` 留档；每次同时存 PNG（600 dpi）与 PDF + `curves.json` + `summary.md`。**画法（用户明确要求）**：每个方法一条折线且只有两段直线——`(0,0) → 拐点 → (右边框, 平台)`；平台取右边框处的值（像素级 = TPR@FPR=窗口右端，目标级 = max Pd），拐点 = 沿横轴升序第一个 ≥0.98×平台 的点（`--two-segment`、`--knee-frac`）。横轴要够长（v10/v11 用 `--xmax 16e-4 --fig-width 4.8 --square`；v8/v9 为 `--xmax 8e-4 --fig-width 6.8`），否则平台贴右边框、看起来"戛然而止"；**`--square` 把坐标框设成 1:1**（`set_box_aspect(1)`），ROC 的斜线与纵轴夹角更小、P-R 是标准 45°；**`--legend-inside` 把图例放进坐标框**（ROC 右下、P-R 左下，>9 条自动两列），导出的 PNG 因此更紧凑（v10 正方形 2645×2564；v11 长方形 3589×1871）；两联图 `roc_pr` 的面板间距 0.28→0.14；改横轴时平台值按新的右边框取（`TPR@窗口右端`），所以 8→16×10⁻⁴ 后 SCTransNet/ILNet/UIU-Net 的平台从 0.88 升到 0.94；**面积指标仍报 `pAUC@5×10⁻⁴`**，该列不随画宽变化；P-R 保留 (0,1) 起点与 recall→1 的尾巴（`--pr-style v1`）；**P-R 为什么像"扇子且在半空截断"（v13 处理）**：Seal 预测是 8 位量化 + 大量硬零（`t=255` 时前景召回只有 0.25–0.61，多数方法在 28–57 % 的 GT 像素上恒为 0），recall 到不了 1，曲线右端自然停住；同时 `t` 接近 255 时整幅只剩几千个预测像素，precision 由个位数像素决定，于是 recall≈0 处冒出竖直毛刺、各条曲线分叉成扇面。v13 用两个**纯显示**开关处理、不动数据：`--pr-min-pred 50000` 丢掉"预测像素 < 5 万"的阈值（毛刺缩到几乎看不见）、`--pr-endpoint-dot` 在每条曲线末端加圆点（读作"到此为止"而非"画漏了"）；仍保留 (0,1) 哨兵，因为去掉后起点悬空（`--pr-style v2` 试过）。数据侧原因（硬零压低 recall）只能靠模型/后处理改，画图解决不了，分析见 [docs/Seal_ROC_PR曲线.md](docs/Seal_ROC_PR曲线.md)；**补充图 `v13_20261105/pr_1.{png,pdf}`**（`--pr-close`）把每条曲线从最后实测点**虚线**外推到 `(1,0)`、交接点画空心圆（实线=实测、虚线=外推）：这不是新数据，只说明"曲线本来就该到 (1,0)"——`recall=1` 时 precision 等于前景占比（Seal test 前景 105,712 px / 总 514,338,642 px = **2.06×10⁻⁴**），在 0–1 纵轴上即 0，所以补到 (1,0) 与补到 (1,2e-4) 肉眼无差；中间段按直线近似故称"大致"，虚线段不参与 pAUC/AP 积分，排名不变；补齐后各虚线在右下角**收成一束**是应有现象，不表示方法接近；**教科书式 P-R 两张补充图**：`v13_20261105/pr_2.{png,pdf}`（像素级、sklearn 惯例：256 个阈值含 `t=0`"全预测"、保留 (0,1) 哨兵，曲线自然终止于 (1,0)，AP 与 summary 一致 0.69984）与 `v13_20261105/pr_obj.{png,pdf}`（**对象级**：`recall` = 表中 Pd、`precision` = 匹配连通域 / 全部预测连通域，匹配规则与 Pd/Fa 相同；`t=128` 的 recall 与表中 Pd 逐位吻合、精度 Ours 0.960 vs 基线 0.66–0.75，Ours AP 0.890 vs 0.544–0.596，形状与参考图同形"高平台 + 右端陡降"，末端用实线同色补到 (1,0)、不画点、拐角 `--corner-radius 0.03` 贝塞尔倒角，**图例只写方法名**（AP 见 [docs/Seal_ROC_PR曲线.md](docs/Seal_ROC_PR曲线.md) 的表，要标回图上加 `--show-ap`）；**字号**：`roc` 与 `pr_obj` 用 `--font-scale 1.25` 出图（轴标签 9→11.25 pt、刻度 8→10 pt、图例 6.4→8 pt），两张 PNG 同为 3645×1907（`plot_roc_pr.py`、`plot_pr_object.py` 都带该开关，默认 1.0；v13 的 `pr.png`/`roc_pr.png` 仍是 1.0 版）；图注须写明 0.71–0.92 → 1.0 那段不是实测，因对象级召回上限只有 0.71–0.92））；实现 [tools/target_pr.py](tools/target_pr.py)（输出 `results/target_pr/<stem>.json`，[tools/target_pr_all.sh](tools/target_pr_all.sh) 并行约 12 min）、[tools/plot_pr_object.py](tools/plot_pr_object.py)、[tools/plot_pr_textbook.py](tools/plot_pr_textbook.py)；**参考图"精度贴 1.0 平推"像素级做不到**——0.02 % 前景下 255 这一筒的精度只有 Ours 0.835、SAM3 0.651、DNA-Net 0.390，像素级只能从 0.83 起步；正文若配像素级 ROC 用 `pr_2`，配目标级 Pd–Fa（v12）用 `pr_obj`，两者 AP 不可互比、都不进 xlsx；图例贴紧坐标轴右缘（`bbox_to_anchor=(ax.x1+0.012, …)`，锚在固定图幅比例上会留一大片空白）；`--highlight` 指定加粗置顶的方法（默认 `Ours`，方法集里没有它时不加粗）；**红色只留给 highlight**，其余曲线从不含红色的 16 色调色板里取（`color_map()`），否则 14 条曲线时第一个基线和 Ours 会同为红色。**一致性**：像素级 `t=128` 的 precision/recall 可复原表中 F1/IoU（Ours precision 0.58130、recall 0.82963 → F1 0.68361、IoU 0.51931，与第 20 行一致；旧预测同点为 0.64637/0.59388 → 0.61912/0.44835）；目标级 `t=128` 的 Pd/Fa 与表中 13 行全部逐位吻合（Ours 0.89151 / 1.717e-05，与第 20 行一致；旧预测 0.82731 / 2.100e-06 存档于 `results/target_curves/Ours_prev_20261105.json`）。**读图**：① 面积指标报 **pAUC@5×10⁻⁴**（基线操作点 Fa@t=128 ≤ 2.4×10⁻⁴）；v8 换上 1105 的最新 Ours 后，两个窗口的 pAUC（**0.85234 / 0.89420**）与 AP（**0.69984**）都第一，像素 TPR@t=128 从 0.594 提到 **0.830**、FPR 从 6.7×10⁻⁵ 升到 1.2×10⁻⁴（仍是 9 个里第二低）；ROC 上 Ours 在 FPR≈3×10⁻⁴ 就到 0.94 平台，其余 8 个最高只有 0.737；SAM3 平台最高（0.737）但拐点在 4.9×10⁻⁴、Fa 是 Ours 的 3.6 倍，属"用更多误检换更高检出"，正文要把 Fa 一并给出；画到 8×10⁻⁴ 后按窗口积的 `pAUC@8×10⁻⁴` 会把弥散输出方法抬高，summary 两个窗口都列；② 全范围 AUC 不能用来排名（几乎不预测前景的方法 0.977–0.981），与 S/MAE 被背景主导同类；③ 目标级图（`v12_20261105/`，1105 批次）Ours 平台 Pd 0.922 最高、拐点 Fa 6.0×10⁻⁶ 比次优 HDNet（5.2×10⁻⁵）低 8.6 倍，拐点 Fa 跨度 17 倍，**目标级仍主推 log 轴**；④ 像素级 `Pd@t=128` 是前景像素召回率，与表中目标级 Pd 不同口径。曲线成品按同样目录结构同步到服务器 `Ours/roc_pr/`，重画脚本同步在服务器 `tools/`；1105 的 Ours 预测包同时上传到服务器 `Ours/1105Ours_result/Ours.zip`。**曲线与第 20 行 Ours 的八项指标现在同为 1105 这批预测**，可以互相引证；旧预测（`test_maps_20261105_prev`）的曲线与指标只作历史对照。口径、版本对照与复现命令见 [docs/Seal_ROC_PR曲线.md](docs/Seal_ROC_PR曲线.md)，预览 `docs/assets/seal_roc_pr_v13.png`（现行，全量 14 条）、`docs/assets/seal_roc_pr_v10.png`（8 个对比方法版）、`docs/assets/seal_pd_fa_v12.png`（现行目标级）、`docs/assets/seal_pd_fa_v3.png`（旧预测目标级）。
 - IoU 的边界敏感性：Seal 目标平均 14.3 像素，把 GT 膨胀/腐蚀 1 像素当预测只能得到 IoU 0.3910 / 0.0826；表中 IoU 0.19–0.31 对应约 1–2 像素边界误差，不能读作分割质量百分比，须与 Fw/F1/Pd/Fa 合看，详见 [定义对照](docs/小目标评价指标_定义与代码对照.md#iou-的边界敏感性seal-gt-实测)。
 - 实验记录：[ACM](docs/ACM_Seal实验记录.md)、[DNA-Net](docs/DNANet_Seal实验记录.md)、[MSHNet](docs/MSHNet_Seal实验记录.md)、[UIU-Net](docs/UIU-Net_Seal实验记录.md)、[SCTransNet](docs/SCTransNet_Seal实验记录.md)、[RPCANet](docs/RPCANet_Seal实验记录.md)、[HDNet](docs/HDNet_Seal实验记录.md)、[ILNet](docs/ILNet_Seal实验记录.md)、[RPCANet++](docs/RPCANet++_Seal实验记录.md)、[L2SKNet](docs/L2SKNet_Seal实验记录.md)、[BGM](docs/BGM_Seal实验记录.md)、[DRPCA-Net](docs/DRPCA-Net_Seal实验记录.md)、[DURD](docs/DURD_Seal实验记录.md)、[DHiF](docs/DHiF_Seal实验记录.md)，汇总见 [Seal全监督基线评估汇总](docs/Seal全监督基线评估汇总.md)，定性图见 [Seal定性对比图](docs/Seal定性对比图.md)。
 
